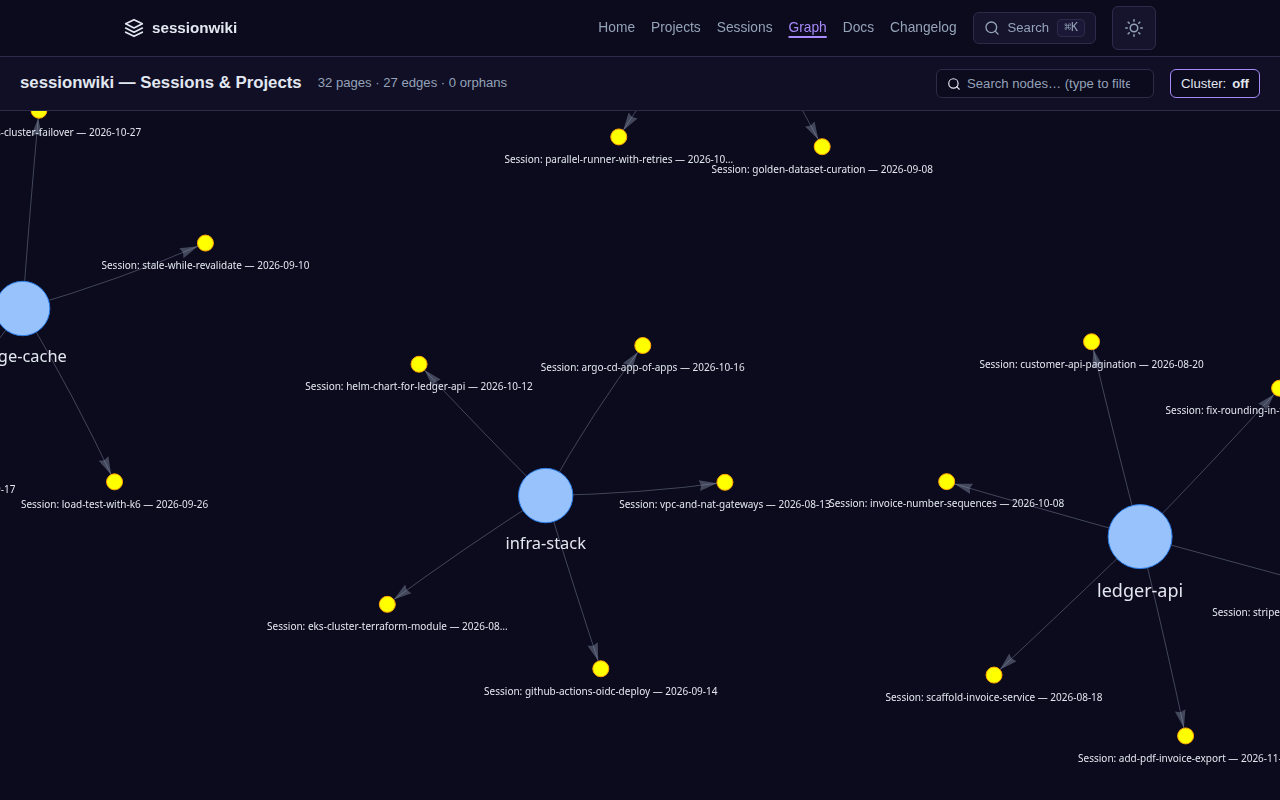
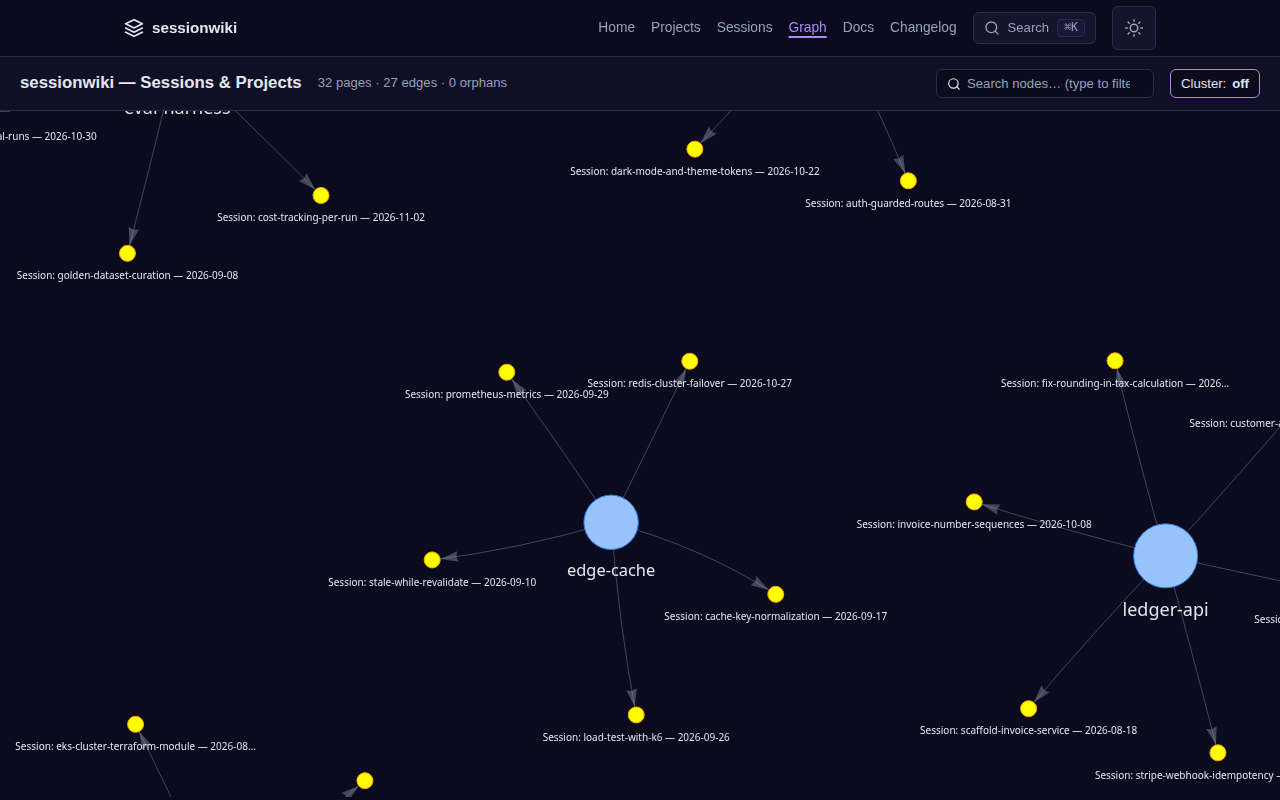
fix: add the demo project cards missing from the demo corpus (#18)
* fix: add the demo project cards missing from the demo corpus

The five wiki/projects/*.md cards for the new demo corpus were left out
of #15 (a local exclude rule hid them), so the live demo had no project
topics or descriptions and docs/reference/cache-tiers.md linked to a
missing file. Adds the cards and regenerates the three screenshots that
show project metadata.

* docs: note the restored demo project cards in the changelog

---------

diff --git a/CHANGELOG.md b/CHANGELOG.md
@@ -70,6 +70,7 @@ Versions below 1.0 are pre-production — API and file formats may change.
 - **`sessionwiki zcode install --scheduler windows` prints a working `schtasks` command** — the task now runs the generated `autosync.cmd` wrapper (which sets the working directory and appends to `autosync.log`) instead of calling python inline, and the `/TR` value escapes its inner quotes as `\"`, so a Python or home path with spaces (`C:\Program Files\…`, `C:\Users\John Doe\…`) no longer splits into broken arguments. Literal `%` in paths is escaped as `%%` in the wrapper.
 - **No private project names or internal hosts in examples** — docs, CLI help, and test fixtures use placeholder projects (`demo_project`, `other-app`) and a loopback `base_url`.
 - **Graph node clicks** (#740) — `/graph.html` nodes now open their page again. The graph builder computed `site_url`, but the vis-network DataSet mapping dropped it, so the click handler always saw `undefined`.
+- **Demo project cards restored** — the rebrand swapped the demo corpus to five projects (`ledger-api`, `pixel-dash`, `edge-cache`, `infra-stack`, `eval-harness`) but shipped only their sessions; the five `wiki/projects/*.md` cards are tracked again, so the Pages demo project links and the `docs/reference/cache-tiers.md` example resolve instead of failing the link check.
 
 ## [1.3.82] — 2026-04-30
 

diff --git a/wiki/projects/ledger-api.md b/wiki/projects/ledger-api.md
@@ -1,0 +1,21 @@
+---
+title: "ledger-api"
+type: entity
+entity_type: project
+project: ledger-api
+topics: [python, fastapi, postgres, sqlalchemy, stripe, billing, pdf]
+description: "Invoicing service in FastAPI and Postgres — money as integer minor units, idempotent Stripe webhooks, exact tax rounding, PDF export."
+homepage: "https://example.com/ledger-api"
+cache_tier: L2
+---
+
+# ledger-api
+
+Billing backend demo. Four sessions across three agents show a service growing from a scaffold to production concerns: idempotency, rounding bugs, and document export.
+
+## Connections
+
+- Python
+- FastAPI
+- PostgreSQL
+- Stripe

diff --git a/wiki/projects/edge-cache.md b/wiki/projects/edge-cache.md
@@ -1,0 +1,20 @@
+---
+title: "edge-cache"
+type: entity
+entity_type: project
+project: edge-cache
+topics: [go, http, caching, redis, prometheus, reliability]
+description: "Caching reverse proxy in Go — stale-while-revalidate without stampedes, Prometheus metrics, and Redis cluster failover with a circuit breaker."
+homepage: "https://example.com/edge-cache"
+cache_tier: L2
+---
+
+# edge-cache
+
+Systems demo. OpenCode sessions on two different models (Claude and GPT) plus one Claude Code session; all show the OpenCode or Claude badge by the tool, not the model.
+
+## Connections
+
+- Go
+- Redis
+- Prometheus

diff --git a/wiki/projects/infra-stack.md b/wiki/projects/infra-stack.md
@@ -1,0 +1,21 @@
+---
+title: "infra-stack"
+type: entity
+entity_type: project
+project: infra-stack
+topics: [terraform, kubernetes, eks, helm, github-actions, aws]
+description: "Infrastructure as code — a reusable EKS Terraform module, keyless CI deploys with GitHub OIDC, and a Helm chart for ledger-api."
+homepage: "https://example.com/infra-stack"
+cache_tier: L2
+---
+
+# infra-stack
+
+Infrastructure demo driven mostly from ZCode, plus a Copilot CLI session. Links to ledger-api show cross-project connections in the graph.
+
+## Connections
+
+- Terraform
+- Kubernetes
+- Helm
+- ledger-api

diff --git a/wiki/projects/pixel-dash.md b/wiki/projects/pixel-dash.md
@@ -1,0 +1,20 @@
+---
+title: "pixel-dash"
+type: entity
+entity_type: project
+project: pixel-dash
+topics: [typescript, react, d3, performance, dark-mode, storybook]
+description: "Analytics dashboard in React and TypeScript — a typed D3 chart kit, a virtualized 100k-row table, and theme tokens with dark mode."
+homepage: "https://example.com/pixel-dash"
+cache_tier: L2
+---
+
+# pixel-dash
+
+Frontend demo worked on from Cursor, Gemini CLI and OpenCode: components, a performance fix with measured before/after numbers, and theming.
+
+## Connections
+
+- TypeScript
+- React
+- D3

diff --git a/wiki/projects/eval-harness.md b/wiki/projects/eval-harness.md
@@ -1,0 +1,20 @@
+---
+title: "eval-harness"
+type: entity
+entity_type: project
+project: eval-harness
+topics: [python, llm, evaluation, rag, asyncio, ci]
+description: "LLM evaluation harness — a RAG faithfulness metric with evidence, a parallel resumable runner, HTML run reports, and eval gates in CI."
+homepage: "https://example.com/eval-harness"
+cache_tier: L2
+---
+
+# eval-harness
+
+ML-tooling demo across Claude Code, ZCode and Codex CLI, ending with evals running automatically on prompt changes.
+
+## Connections
+
+- Python
+- RAG
+- LLMAsJudge
